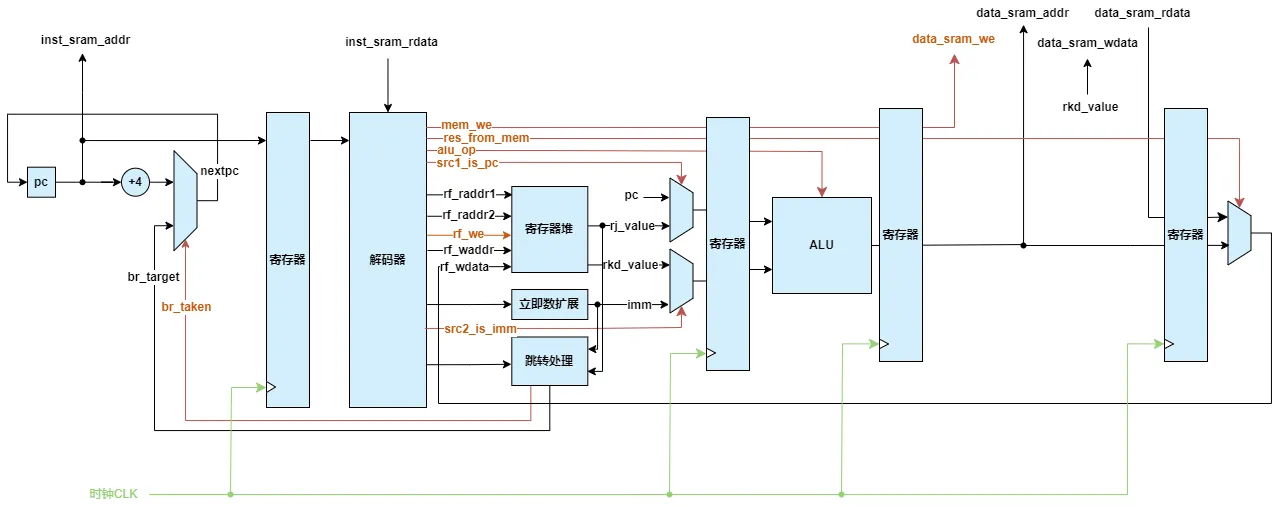
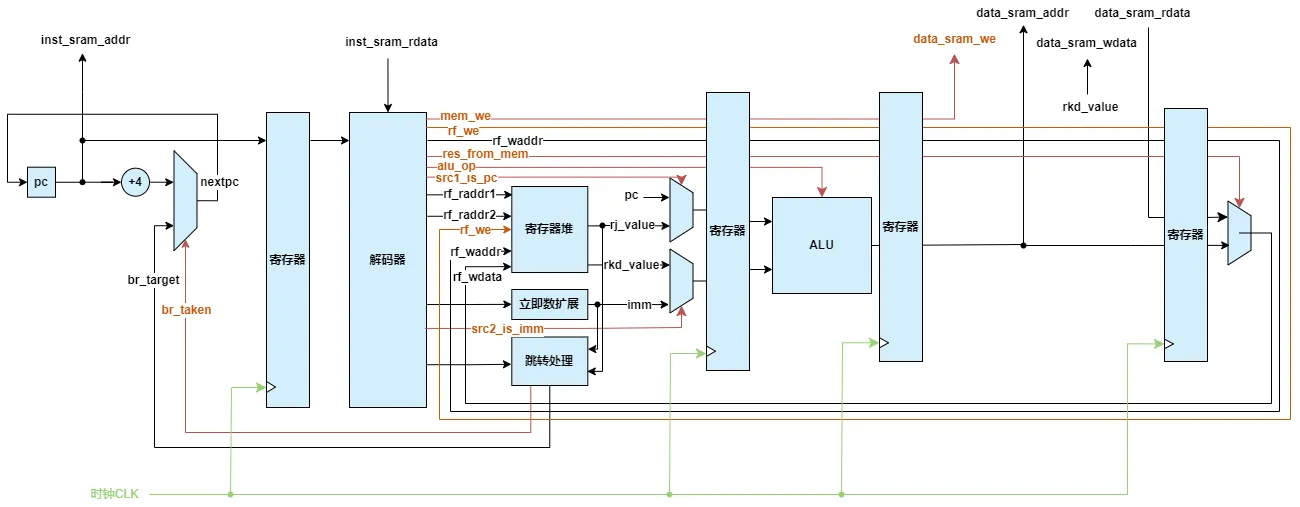
add：exp8、9；删除overleaf建站

diff --git a/content/posts/龙芯实验/index.md b/content/posts/龙芯实验/index.md
@@ -2,7 +2,7 @@
 title: 龙芯实验攻略
 description: 概要
 date: 2025-01-19
-lastmod: 2025-02-03
+lastmod: 2025-02-05
 author: Vincent Ice
 avatar: /me/xx.jpg
 cover: cover.jpg
@@ -47,6 +47,7 @@ CPU的debug实际上就是在观察数据通路上各处流动的数据是不是
 目标：
 
 - [x] 学习流水线的基本概念（课上讲义、百度、[计算机体系结构基础](https://foxsen.github.io/archbase/%E6%8C%87%E4%BB%A4%E6%B5%81%E6%B0%B4%E7%BA%BF.html#sec-pipeline-cpu)）
+- [x] 多周期CPU的概念
 - [ ] 修改单周期CPU，使其流水线化
 
 ### 流水线的作用
@@ -73,7 +74,7 @@ CPU的debug实际上就是在观察数据通路上各处流动的数据是不是
 
 在流水线中，每一级都可能处理着不同的指令，这时我们就需要一些存储当前级指令信息的级间寄存器，这些级间寄存器储存着指令相关的数据和控制信息以供当前级处理使用。
 
-以下是流水线化后的CPU数据通路示意图：
+<a name="数据通路流水线"></a> 以下是流水线化后的CPU数据通路示意图：
 
 ![datapath-简单流水线](assets/datapath-简单流水线.webp)
 
@@ -82,8 +83,156 @@ CPU的debug实际上就是在观察数据通路上各处流动的数据是不是
 1. 调整CPU顶层接口，增加指令RAM的片选信号 `inst_sram_en` 和数据RAM的片选信号 `data_sram_en`
 2. 调整CPU顶层接口，将`inst_sram_we` 和 `data_sram_we` 都从1比特的写使能调整为4比特的字节写使能
 3. 在流水线CPU中，调试定错可以基于级间寄存器的内容判断
+4. 各级流水线中命名需要有命名逻辑，很容易找不到
 
+## exp8
 
+目标：
+
+- [x] 流水线CPU的运行过程
+- [ ] 流水线冲突以及如何处理流水线冲突（阻塞方法）
+
+### 流水线冲突
+
+**流水线冲突（Hazard）**是指由于指令在流水线中并行执行时产生的依赖关系或资源竞争，导致后续指令无法正常执行的现象。主要分为三类：数据相关、控制相关和结构相关。
+
+#### 数据冲突
+
+数据相关根据冲突访问读和写的次序可以分为3种。
+
+1. 写后读（Read After Write,简称RAW）相关，即后面指令要用到前面指令所写的数据，也称为真相关。
+2. 写后写（Write After Write,简称WAW）相关，即两条指令写同一个单元，也称为输出相关。
+3. 读后写（Write After Read,简称WAR）相关，即后面的指令覆盖前面指令所读的单元，也称为反相关。
+
+> 在静态五级流水线CPU中，仅会出现RAW相关流水线冲突，WAW和WAR在乱序流水线中需要考虑。
+
+对于以下两条指令：
+
+```asm
+add.w $r2, $r1, $r1
+add.w $r3, $r2, $r2
+```
+
+第2条指令的源寄存器`r2`为第1条指令的目的寄存器，即存在RAW相关。其时空图如下：
+
+![](assets/RAW原始.webp)
+
+我们注意到在第3个时钟周期时，第2条指令读取`r2`寄存器的值，但此时第1条指令未执行写回，也就是说读取到`r2`寄存器的值并非是最新的、正确的值，第2条指令的运行数据必然是错误的。
+
+为了保证执行的正确，一种最直接的解决方式是让第2条指令在译码阶段**等待（阻塞）3拍**，直到第1条指令将结果写入寄存器后才能读取寄存器，进入后续的执行阶段。这时时空图如下：
+
+![](assets/RAW阻塞.webp)
+
+#### 控制冲突
+
+控制冲突主要是由于分支/跳转指令导致后续指令的取指目标不确定。
+
+对于以下的指令序列：
+
+```asm
+jirl  $r0, $r1, 0
+add.w $r2, $r1, $r1
+add.w $r7, $r8, $r9
+```
+
+其时空图如下：
+
+![](assets/时空图-控制.webp)
+
+我们注意到在第3周期`jirl`指令被执行的时候，两条`add.w`指令已经进入流水线，而这两条指令是不需要被执行的，这就引发了控制冲突。
+
+为了解决这个问题，可以通过在取指阶段引入2拍的流水线阻塞来解决，此时时空图如下：
+
+![](assets/时空图-控制阻塞.webp)
+
+在单发射5级静态流水线中，如果增加专用的运算资源**将转移指令条件判断和计算下一条指令PC的处理调整到译码阶段**，那么转移指令后面的指令只需要在取指阶段等1拍。
+
+> 在前文中的<a href="#数据通路流水线">数据通路图</a>中，我其实已经将跳转处理调整到译码阶段了。
+
+为更进一步减少由控制相关引起的阻塞，可以采用转移指令的**延迟槽**技术，在定义指令系统的时候就明确转移指令延迟槽指令的执行不依赖于转移指令的结果（如MIPS），这样转移指令后面的指令在取指阶段1拍也不用等。
+
+另外一种思路是**分支预测**，通过合理的方式对跳转目标PC的预测以消除等待计算的时间，具体可参考《超标量处理器设计》一书中分支预测[相关部分](https://www.cnblogs.com/lyc-seu/p/16995926.html)。
+
+#### 结构冲突
+
+结构相关引起冲突的原因是两条指令要同时访问流水线中的同一个功能部件。
+
+回顾前文中使用阻塞处理冲突时，被阻塞的指令之后的指令也由于执行部件被占用而无法在流水线中执行，一起被堵在后面。
+
+再回顾前文中数据通路，我们发现有指令、数据两个存储器（哈佛架构），这其实也是为了解决取指和访存同时读取存储器的结构冲突。
+
+### 流水线冲突的解决
+
+流水线冲突的解决方式主要分为两种：**阻塞**和**旁路**。
+
+#### 阻塞
+
+在前文讲解流水线冲突的过程中，我们均采用的是阻塞方法，即一个字：等！等到该准备的都准备好了再执行。其优点是控制逻辑简单，无需添加很多电路单元；当然其缺点也很明显，CPU大部分时间都在摸鱼了，造成了很大的性能浪费。
+
+#### 旁路
+
+旁路技术主要原理是添加一些专用计算模块，以降低甚至消除阻塞时间，体现了芯片设计中的**以空间换时间**的思路。
+
+例如前文中将分支跳转的执行从执行级调整到译码级，并增加专用的分支跳转模块。
+
+### 修改方式
+
+将流水线中添加阻塞控制的思路在这里提供两种：
+
+#### 控制单元
+
+添加一个流水线运行控制单元，其负责处理各级流水线发出的阻塞请求，并给各流水级发出阻塞信号，阻塞信号作为级间寄存器的使能信号即可。
+
+#### 握手机制
+
+握手机制需要在各级流水线中添加握手信号，当两方握上手后使能级间寄存器。
+
+```verilog
+always @(posedge clk) begin
+    if (for_valid && next_allowin) begin
+        buffer <= for_input;
+    end
+end
+```
+
+- `for_valid`为前级有效信号
+- `next_allowin`为后级允许进入信号
+- `buffer`为级间寄存器
+- `for_input`为前级输入数据
+
+> 注意如果使用后级允许进入信号生成本级允许信号的话，可能会使关键路径贯穿整个流水线，在流水线深度较深的情况下需要注意。
+
+### 调试Tips
+
+1. 在已有部件正确的情况下，只需要判断新加入的部件是否正常运行
+2. 优先关注控制信号是否正确
+3. 如果需要可以先进行单独部件的仿真测试
+
+## exp9
+
+目标：
+
+- [x] 流水线冲突的概念及阻塞处理实现
+- [ ] 使用前递技术处理数据冲突
+
+### 前递技术
+
+让我们重新观察使用阻塞方式处理数据冲突的时空图：
+
+![](assets/RAW原始.webp)
+
+对于`add.w`指令，在流水线的执行级已经将结果计算出，如果我们可以提前将结果发送给译码级处，就不用阻塞流水线等待了，这就是流水线前递（Forwarding）技术。同样，我们也要添加访存级、写回级的数据前递回译码级的数据通路。
+
+### 数据通路
+
+以下是添加了前递通路的数据通路参考：
+
+![](assets/datapath-前递.webp)
+
+### 调试Tips
+
+1. 同样的我们几乎只需要关注前推处理的逻辑
+2. 注意`ld.w`等访存指令需要在访存级结束才能有正确数据
 
 ## 附录
 

diff --git a/content/posts/Overleaf建站/index.md b/content/posts/Overleaf建站/index.md
@@ -10,6 +10,7 @@ categories:
     - 杂
 tags: 
     - Overleaf
+draft: true
 ---
 
 > 项目官网: [overleaf/overleaf: A web-based collaborative LaTeX editor](https://github.com/overleaf/overleaf)
